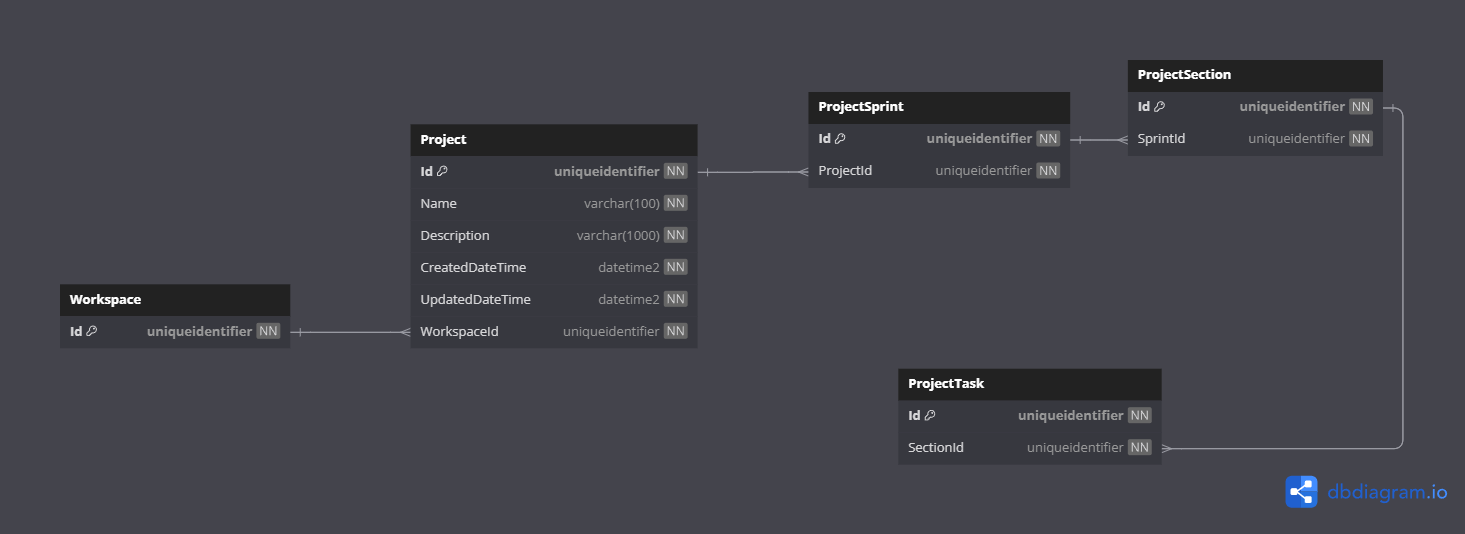
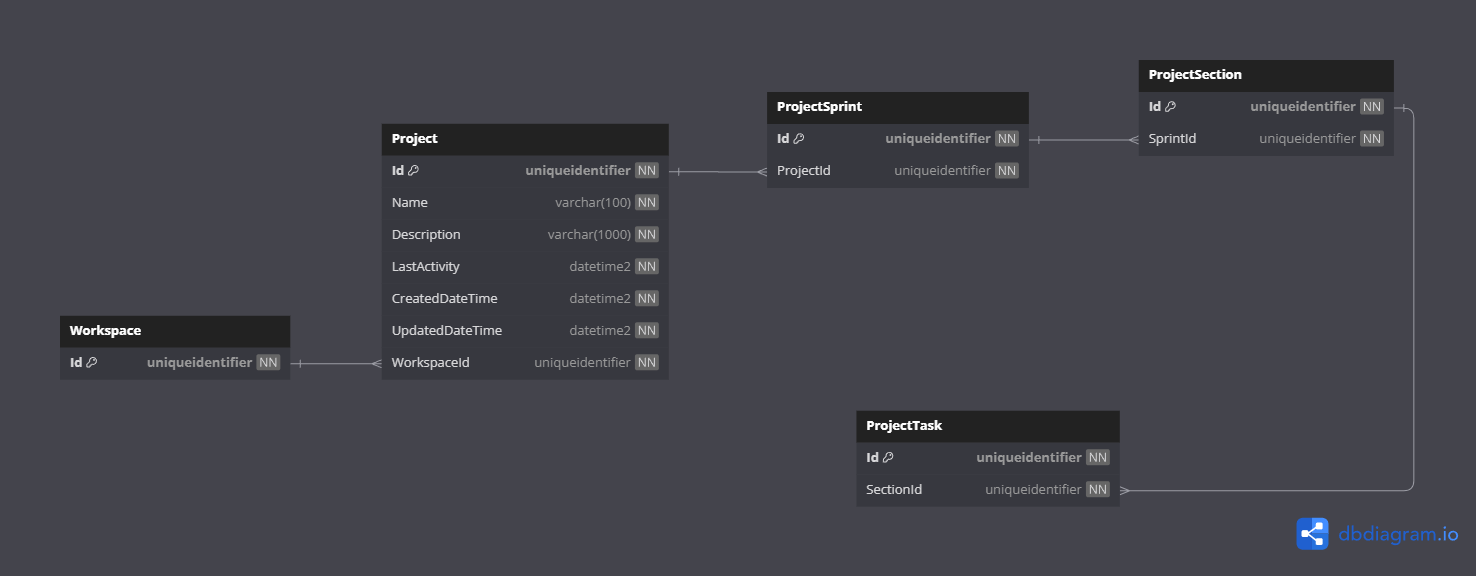
#91 Domain - Project and Workspace - Add new Property: Last Activity and Refactor RefreshUpdatedDateTime to Refresh Activity

Changed region(s): [[0.0307, 0.0899, 0.9522, 0.6592], [0.5529, 0.6891, 0.9829, 0.9588]]

diff --git a/src/ConsiliumTempus.Domain/Workspace/WorkspaceAggregate.cs b/src/ConsiliumTempus.Domain/Workspace/WorkspaceAggregate.cs
@@ -21,6 +21,7 @@ public sealed class WorkspaceAggregate : AggregateRoot<WorkspaceId, Guid>
         Description description,
         UserAggregate owner,
         IsPersonal isPersonal,
+        DateTime lastActivity,
         DateTime createdDateTime,
         DateTime updatedDateTime) : base(id)
     {
@@ -28,6 +29,7 @@ public sealed class WorkspaceAggregate : AggregateRoot<WorkspaceId, Guid>
         Description = description;
         Owner = owner;
         IsPersonal = isPersonal;
+        LastActivity = lastActivity;
         CreatedDateTime = createdDateTime;
         UpdatedDateTime = updatedDateTime;
     }
@@ -39,7 +41,8 @@ public sealed class WorkspaceAggregate : AggregateRoot<WorkspaceId, Guid>
     public Description Description { get; private set; } = default!;
     public IsPersonal IsPersonal { get; private set; } = default!;
     public UserAggregate Owner { get; private set; } = default!;
-    public DateTime CreatedDateTime { get; private set; }
+    public DateTime LastActivity { get; private set; }
+    public DateTime CreatedDateTime { get; init; }
     public DateTime UpdatedDateTime { get; private set; }
     public IReadOnlyList<Membership> Memberships => _memberships.AsReadOnly();
     public IReadOnlyList<ProjectAggregate> Projects => _projects.AsReadOnly();
@@ -56,6 +59,7 @@ public sealed class WorkspaceAggregate : AggregateRoot<WorkspaceId, Guid>
             description,
             owner,
             isPersonal,
+            DateTime.UtcNow, 
             DateTime.UtcNow,
             DateTime.UtcNow);
 
@@ -66,12 +70,13 @@ public sealed class WorkspaceAggregate : AggregateRoot<WorkspaceId, Guid>
     {
         Name = name;
         Description = description;
+        LastActivity = DateTime.UtcNow;
         UpdatedDateTime = DateTime.UtcNow;
     }
 
-    public void RefreshUpdatedDateTime()
+    public void RefreshActivity()
     {
-        UpdatedDateTime = DateTime.UtcNow;
+        LastActivity = DateTime.UtcNow;
     }
 
     public void AddUserMembership(Membership membership)

diff --git a/src/ConsiliumTempus.Domain/Project/ProjectAggregate.cs b/src/ConsiliumTempus.Domain/Project/ProjectAggregate.cs
@@ -24,6 +24,7 @@ public sealed class ProjectAggregate : AggregateRoot<ProjectId, Guid>, ITimestam
         IsFavorite isFavorite,
         IsPrivate isPrivate,
         WorkspaceAggregate workspace,
+        DateTime lastActivity,
         DateTime createdDateTime,
         DateTime updatedDateTime) : base(id)
     {
@@ -32,6 +33,7 @@ public sealed class ProjectAggregate : AggregateRoot<ProjectId, Guid>, ITimestam
         IsFavorite = isFavorite;
         IsPrivate = isPrivate;
         Workspace = workspace;
+        LastActivity = lastActivity;
         CreatedDateTime = createdDateTime;
         UpdatedDateTime = updatedDateTime;
     }
@@ -42,6 +44,7 @@ public sealed class ProjectAggregate : AggregateRoot<ProjectId, Guid>, ITimestam
     public Description Description { get; private set; } = default!;
     public IsFavorite IsFavorite { get; private set; } = default!;
     public IsPrivate IsPrivate { get; private set; } = default!;
+    public DateTime LastActivity { get; private set; }
     public DateTime CreatedDateTime { get; init; }
     public DateTime UpdatedDateTime { get; private set; }
     public WorkspaceAggregate Workspace { get; init; } = default!;
@@ -62,6 +65,7 @@ public sealed class ProjectAggregate : AggregateRoot<ProjectId, Guid>, ITimestam
             isPrivate,
             workspace,
             DateTime.UtcNow,
+            DateTime.UtcNow,
             DateTime.UtcNow);
 
         project.AddDomainEvent(new ProjectCreated(project, user));
@@ -74,9 +78,9 @@ public sealed class ProjectAggregate : AggregateRoot<ProjectId, Guid>, ITimestam
         _sprints.Add(sprint);
     }
 
-    public void RefreshUpdatedDateTime()
+    public void RefreshActivity()
     {
-        UpdatedDateTime = DateTime.UtcNow;
-        Workspace.RefreshUpdatedDateTime();
+        LastActivity = DateTime.UtcNow;
+        Workspace.RefreshActivity();
     }
 }

diff --git a/src/ConsiliumTempus.Domain/Project/Entities/ProjectSprint.cs b/src/ConsiliumTempus.Domain/Project/Entities/ProjectSprint.cs
@@ -46,7 +46,7 @@ public sealed class ProjectSprint : Entity<ProjectSprintId>, ITimestamps
         DateOnly? startDate = null,
         DateOnly? endDate = null)
     {
-        return new ProjectSprint(
+        var sprint = new ProjectSprint(
             ProjectSprintId.CreateUnique(),
             name,
             project,
@@ -54,6 +54,10 @@ public sealed class ProjectSprint : Entity<ProjectSprintId>, ITimestamps
             DateTime.UtcNow,
             startDate,
             endDate);
+        
+        sprint.Project.RefreshActivity();
+        
+        return sprint;
     }
 
     public void AddSection(ProjectSection section)

diff --git a/src/ConsiliumTempus.Application/Project/Entities/Sprint/Commands/Create/CreateProjectSprintCommandHandler.cs b/src/ConsiliumTempus.Application/Project/Entities/Sprint/Commands/Create/CreateProjectSprintCommandHandler.cs
@@ -29,7 +29,7 @@ public sealed class CreateProjectSprintCommandHandler(
             command.EndDate);
         await projectSprintRepository.Add(projectSprint, cancellationToken);
 
-        project.RefreshUpdatedDateTime();
+        project.RefreshActivity();
 
         await unitOfWork.SaveChangesAsync(cancellationToken);
 

diff --git a/src/ConsiliumTempus.Application/Project/Entities/Sprint/Commands/Delete/DeleteProjectSprintCommandHandler.cs b/src/ConsiliumTempus.Application/Project/Entities/Sprint/Commands/Delete/DeleteProjectSprintCommandHandler.cs
@@ -23,7 +23,7 @@ public sealed class DeleteProjectSprintCommandHandler(
         
         projectSprintRepository.Remove(projectSprint);
         
-        projectSprint.Project.RefreshUpdatedDateTime();
+        projectSprint.Project.RefreshActivity();
 
         await unitOfWork.SaveChangesAsync(cancellationToken);
 

diff --git a/src/ConsiliumTempus.Application/Project/Commands/Delete/DeleteProjectCommandHandler.cs b/src/ConsiliumTempus.Application/Project/Commands/Delete/DeleteProjectCommandHandler.cs
@@ -19,7 +19,7 @@ public sealed class DeleteProjectCommandHandler(IProjectRepository projectReposi
         
         projectRepository.Remove(project);
         
-        project.Workspace.RefreshUpdatedDateTime();
+        project.Workspace.RefreshActivity();
         
         return new DeleteProjectResult();
     }

diff --git a/src/ConsiliumTempus.Application/Project/Commands/Create/CreateProjectCommandHandler.cs b/src/ConsiliumTempus.Application/Project/Commands/Create/CreateProjectCommandHandler.cs
@@ -33,7 +33,7 @@ public sealed class CreateProjectCommandHandler(
             user!);
         await projectRepository.Add(project, cancellationToken);
 
-        workspace.RefreshUpdatedDateTime();
+        workspace.RefreshActivity();
 
         return new CreateProjectResult();
     }

diff --git a/docs/domain/aggregates/Aggregate.Workspace.md b/docs/domain/aggregates/Aggregate.Workspace.md
@@ -10,7 +10,7 @@ class Workspace
     Workspace Create()
     void Update()
     void AddUserMembership()
-    void RefreshUpdatedDateTime()
+    void RefreshActivity()
     void TransferOwnership()
     void UpdateIsPersonal()
 }
@@ -23,6 +23,7 @@ class Workspace
   "description": { "value": "This is the description of the workspace" },
   "owner": {},
   "isPersonal": { "value": true },
+  "lastActivity": "2020-01-01T00:00:00.0000000Z",
   "createdDateTime": "2020-01-01T00:00:00.0000000Z",
   "updatedDateTime": "2020-01-01T00:00:00.0000000Z",
   "memberships": [{}]

diff --git a/docs/domain/aggregates/Aggregate.Project.md b/docs/domain/aggregates/Aggregate.Project.md
@@ -9,7 +9,7 @@ class Project
 {
     Project Create()
     void AddSprint()
-    void RefresUpdatedDateTime()
+    void RefreshActivity()
 }
 ```
 
@@ -20,6 +20,7 @@ class Project
   "description": { "value": "This is the description of the project" },
   "isFavorite": { "value": false },
   "isPrivate": { "value": true },
+  "lastActivity": "2020-01-01T00:00:00.0000000Z",
   "createdDateTime": "2020-01-01T00:00:00.0000000Z",
   "updatedDateTime": "2020-01-01T00:00:00.0000000Z",
   "workspace": {},
